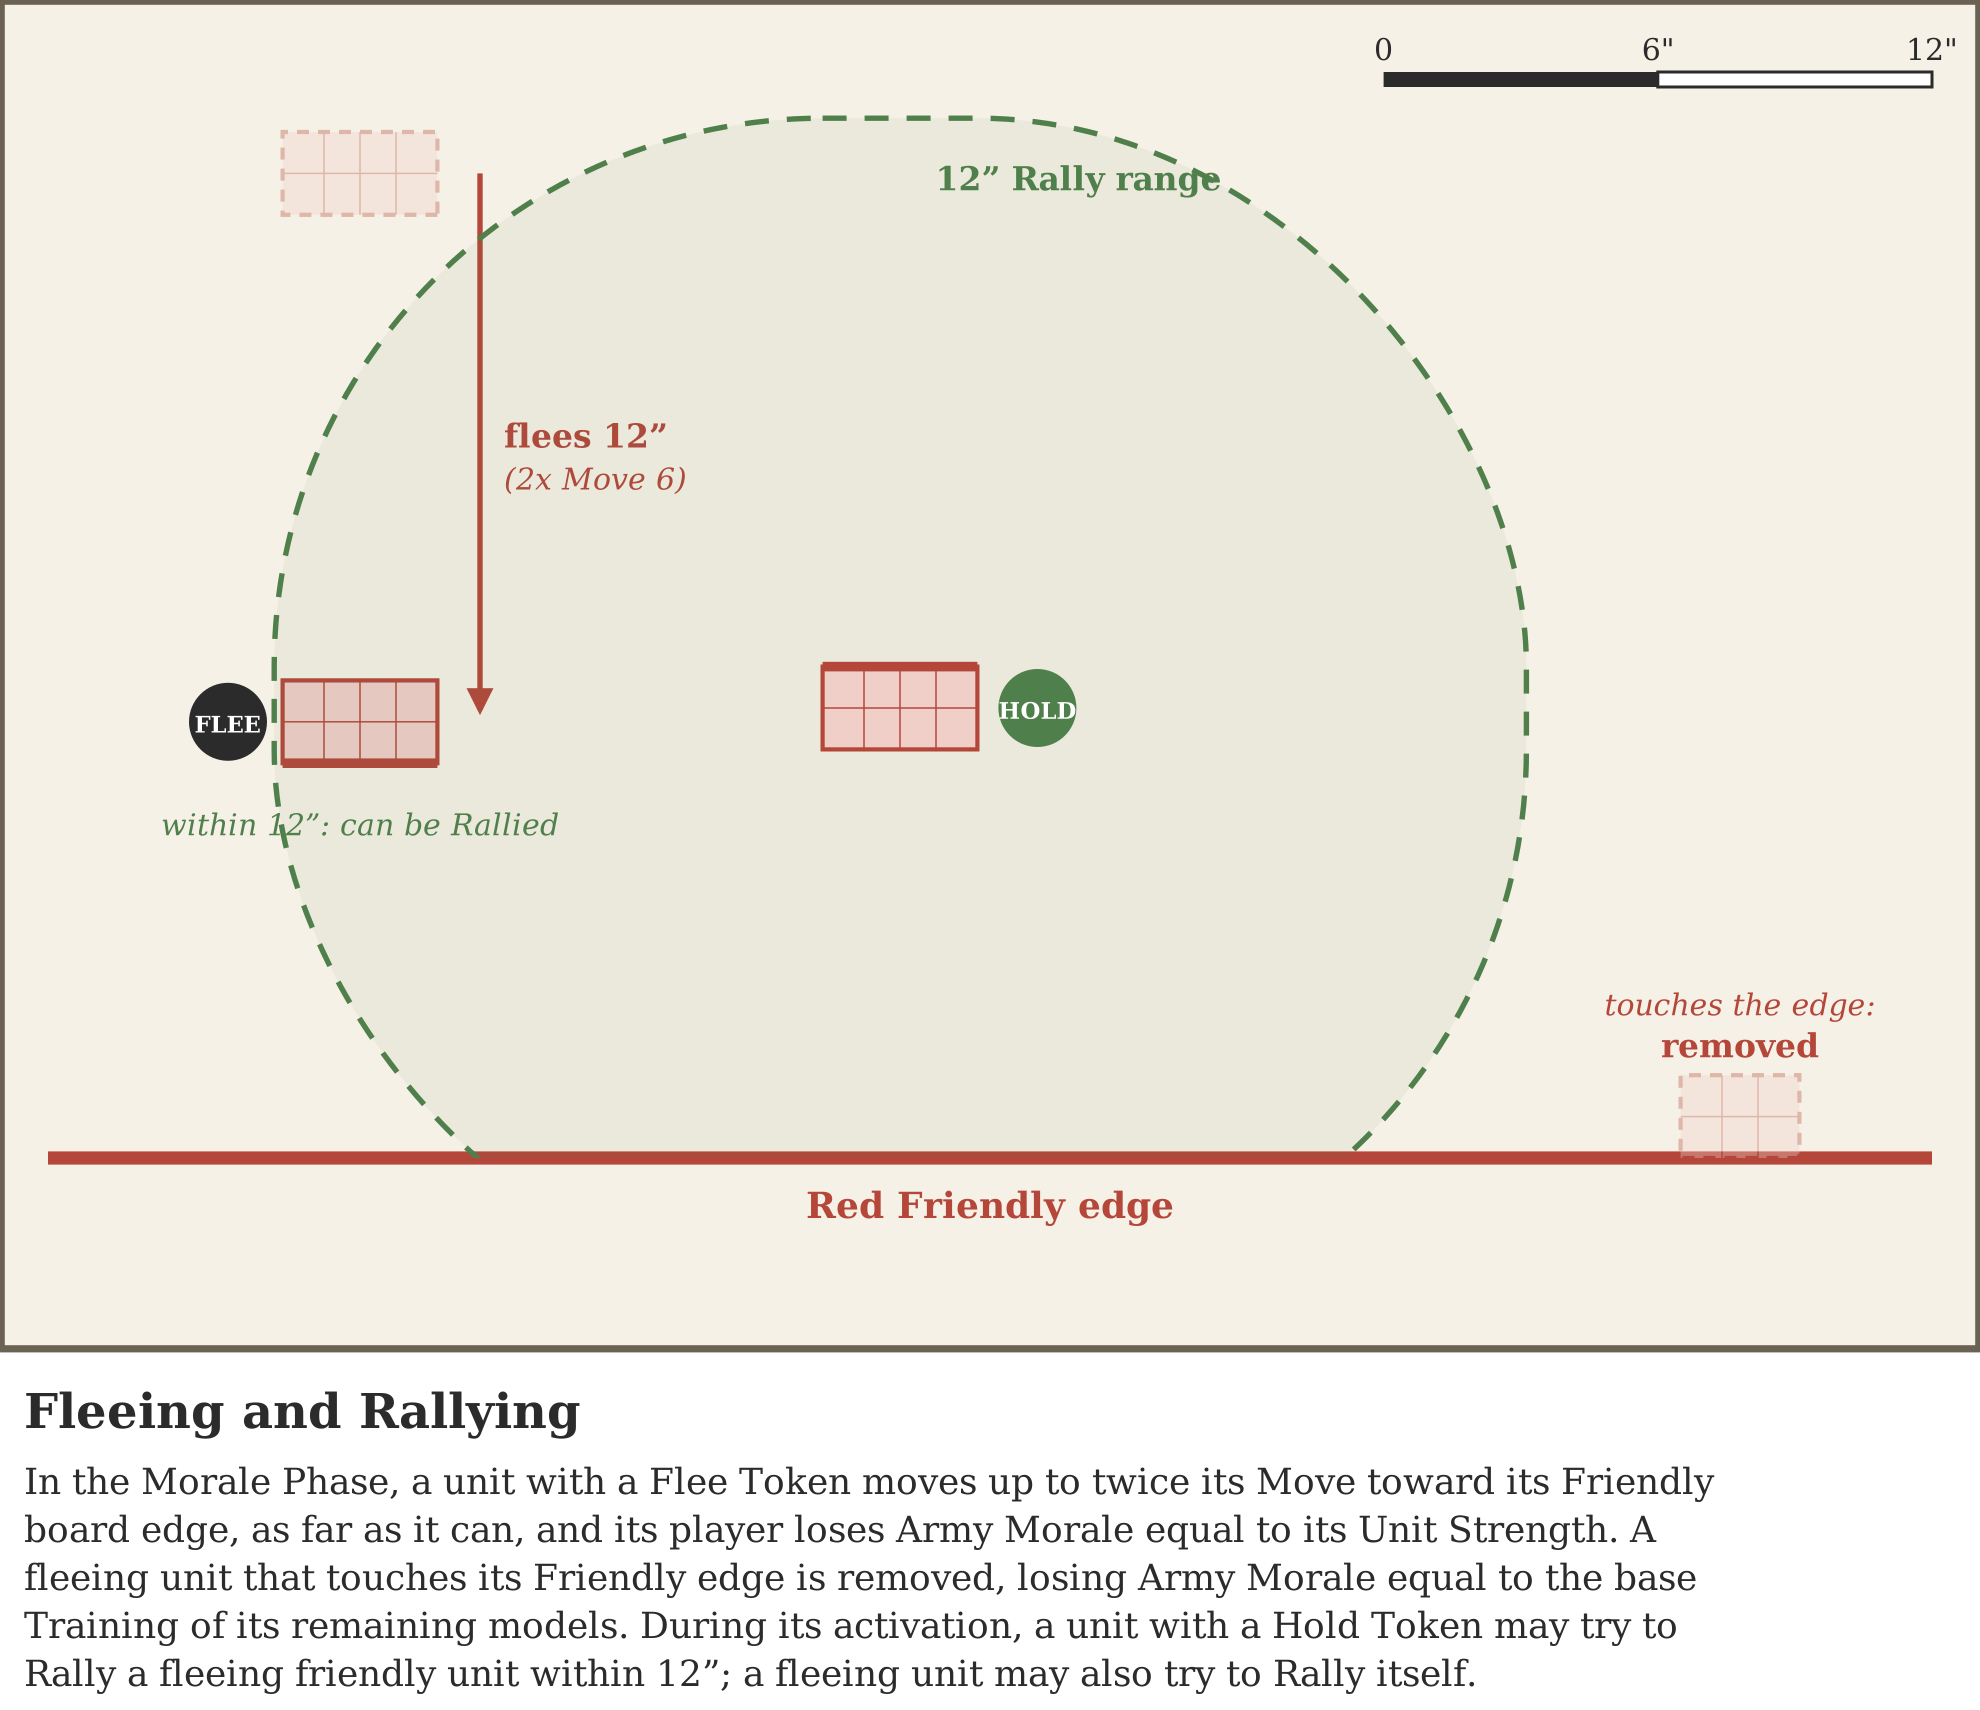
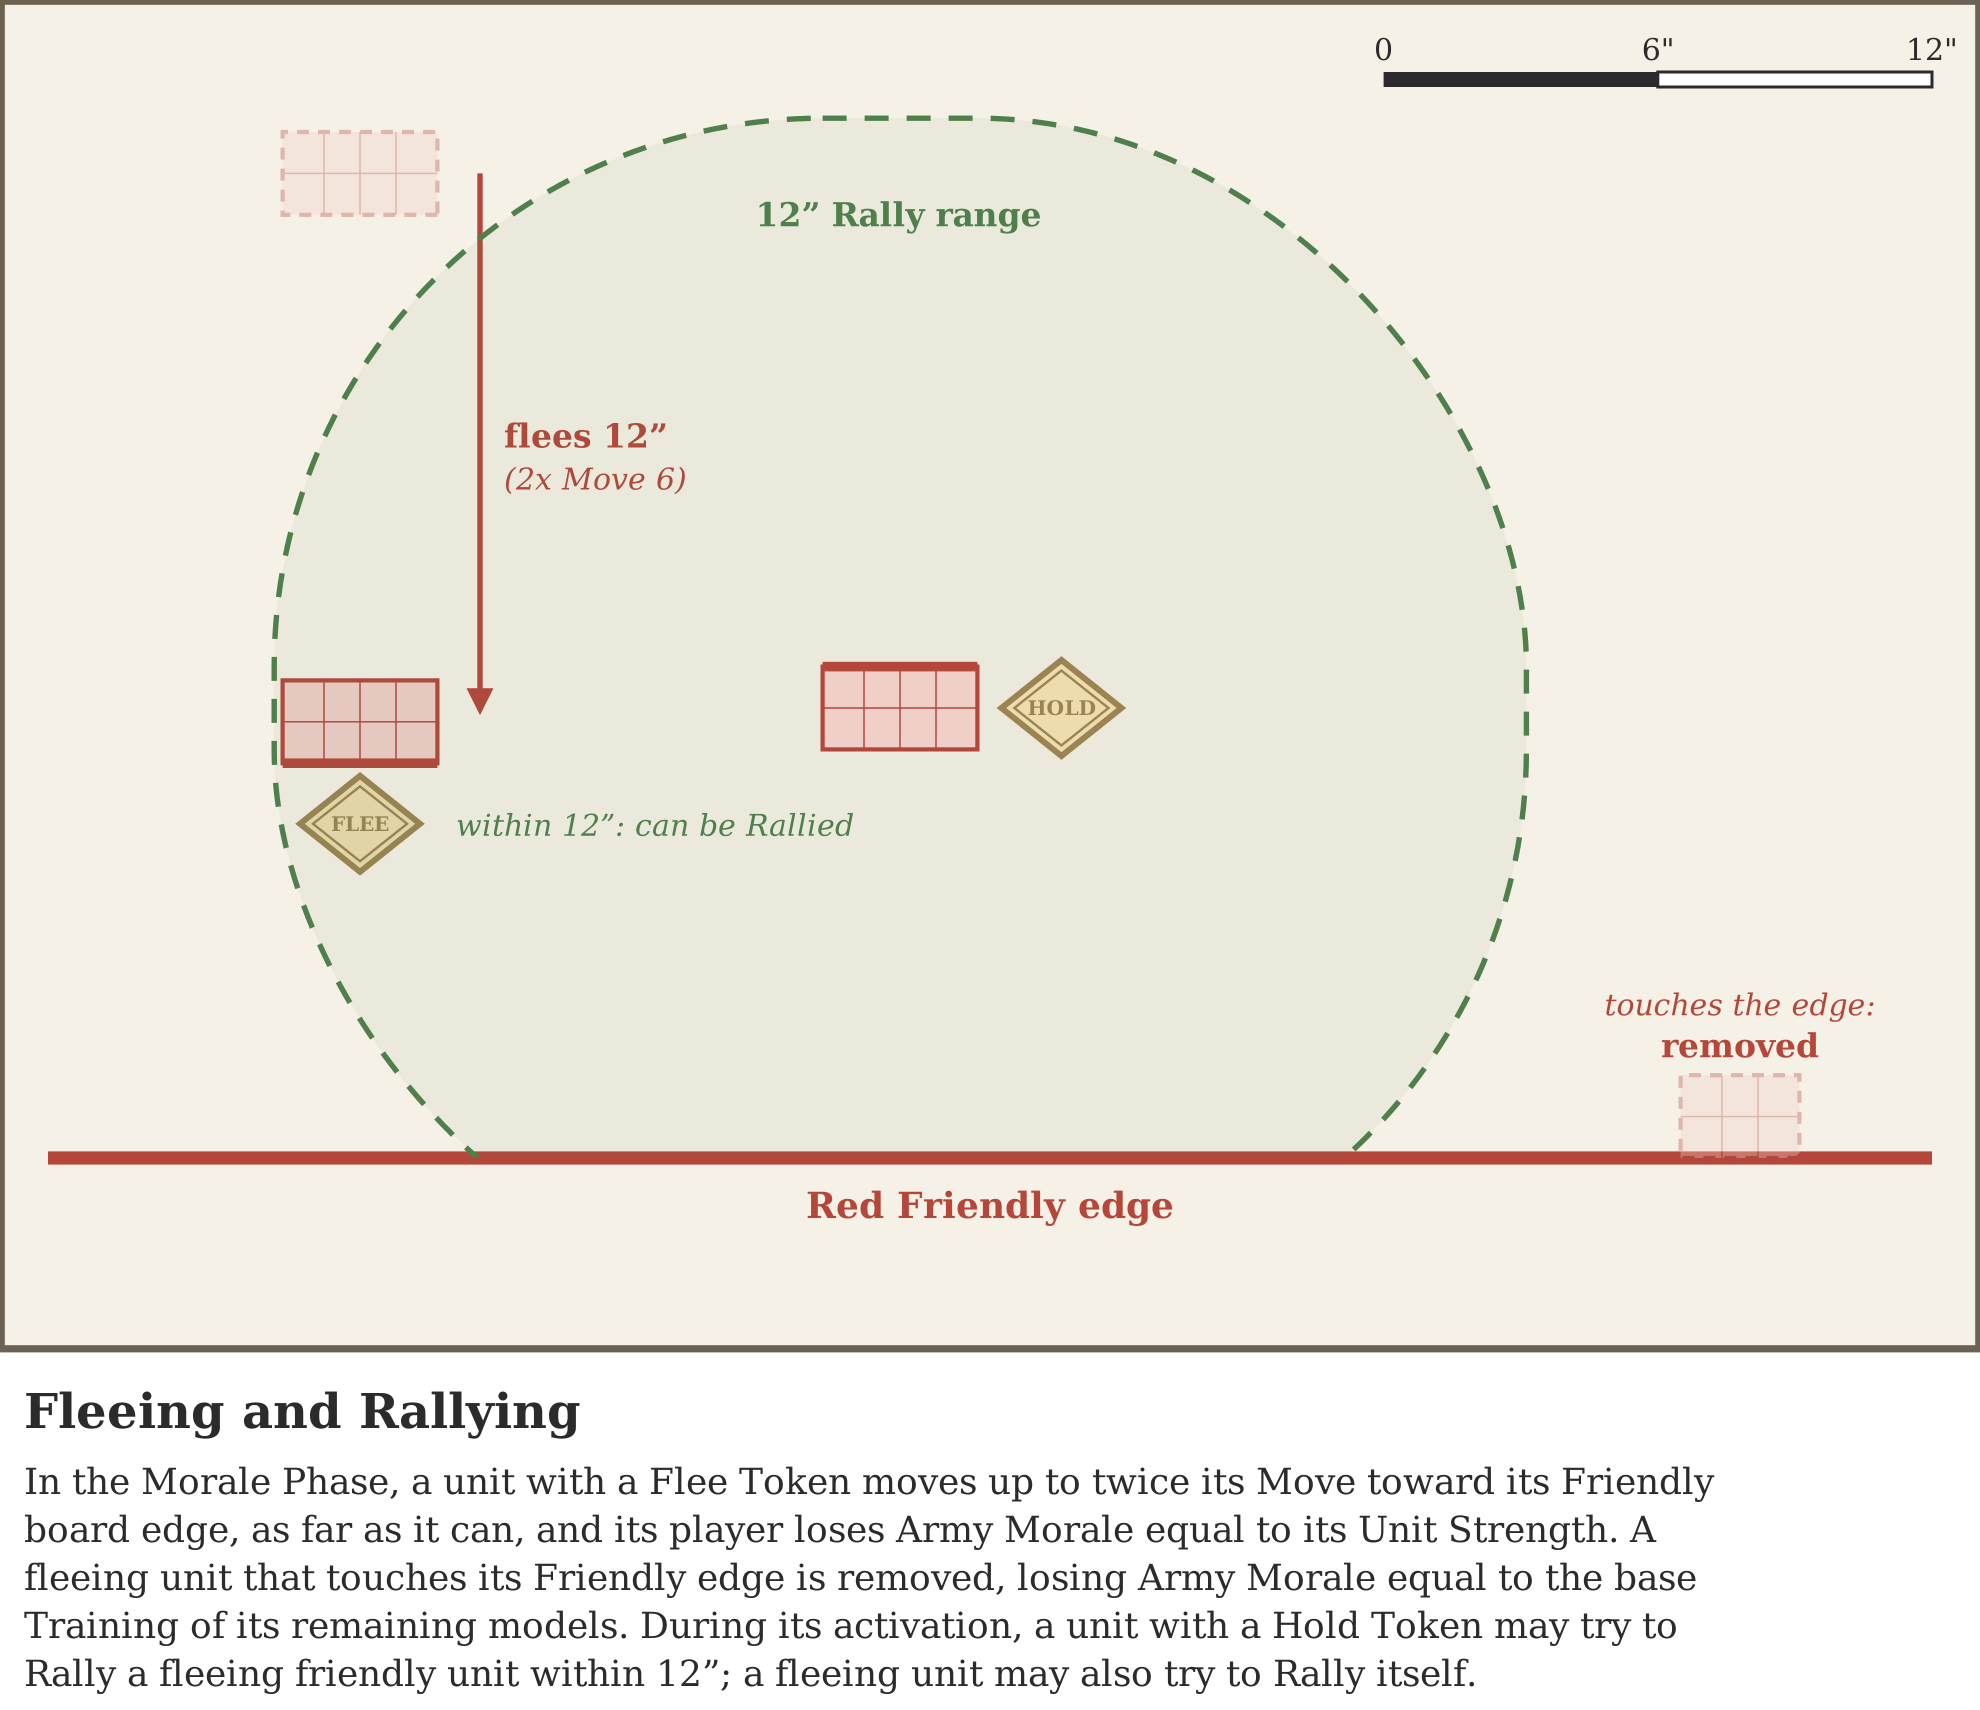
Diagrams: new token art in Fleeing, Exposed Flanks and Charge Fails; fix Fleeing label overlaps
Claude-Session: https://claude.ai/code/session_017qtE7ipkmheXKkdp74hFts

diff --git a/diagrams/fleeing.py b/diagrams/fleeing.py
@@ -1,4 +1,5 @@
 from board import *
+from tokens import action_token
 k = 0.3
 W, H = 330, 225
 s = SVG(W, H, 'Fleeing and Rallying', [
@@ -21,7 +22,7 @@ mini_tray(s, fx, fy1 + mm(23), 2, 4, 180, 'red', k=k)
 s.arrow(fx + 20, fy0 + mm(23), fx + 20, fy1 + mm(23) - 2, C['red'], w=0.9)
 s.text(fx + 24, (fy0 + fy1) / 2 + mm(23), 'flees 12”', 5.5, C['red'], 'start', bold=True)
 s.text(fx + 24, (fy0 + fy1) / 2 + mm(23) + 7, '(2x Move 6)', 5, C['red'], 'start', italic=True)
-token(fx - 22, fy1 + mm(23), 'FLEE', C['ink'])
+action_token(s, fx, fy1 + mm(23) + 17, 'Flee', 8)
 # 2. a fleeing unit that reaches the edge is removed
 rx = 290
 mini_tray(s, rx, edge - mm(23), 2, 3, 180, 'red', ghost=True, k=k)
@@ -33,9 +34,9 @@ w, d = mm(86), mm(46); R = mm(12 * IN)
 s.add(f'<clipPath id="table"><rect x="0" y="0" width="{W}" height="{edge}"/></clipPath>')
 s.add(f'<rect clip-path="url(#table)" x="{hx - w/2 - R:.1f}" y="{hy - d/2 - R:.1f}" width="{w + 2*R:.1f}" height="{d + 2*R:.1f}" rx="{R:.1f}" fill="{C["green"]}" fill-opacity="0.07" stroke="{C["green"]}" stroke-width="0.9" stroke-dasharray="4 3"/>')
 mini_tray(s, hx, hy, 2, 4, 0, 'red', k=k)
-token(hx + w / 2 + 10, hy, 'HOLD', C['green'])
-s.text(hx + 30, hy - d / 2 - R + 12, '12” Rally range', 5.5, C['green'], bold=True)
-s.text(fx, fy1 + mm(46) + 12, 'within 12”: can be Rallied', 5, C['green'], italic=True)
+action_token(s, hx + w / 2 + 14, hy, 'Hold', 8)
+s.text(hx, hy - d / 2 - R + 18, '12” Rally range', 5.5, C['green'], bold=True)
+s.text(fx + 16, fy1 + mm(23) + 19, 'within 12”: can be Rallied', 5, C['green'], 'start', italic=True)
 s.add(f'<rect x="0.4" y="0.4" width="{W-0.8}" height="{H-0.8}" fill="none" stroke="{C["line"]}" stroke-width="0.8"/>')
 w12 = mm(12 * IN)
 s.add(f'<rect x="{W-8-w12:.1f}" y="{12}" width="{w12/2:.1f}" height="2.5" fill="{C["ink"]}"/><rect x="{W-8-w12/2:.1f}" y="12" width="{w12/2:.1f}" height="2.5" fill="#fff" stroke="{C["ink"]}" stroke-width="0.5"/>')

diff --git a/diagrams/exposed_flanks.py b/diagrams/exposed_flanks.py
@@ -1,4 +1,5 @@
 from style import *
+from tokens import break_token
 W, H = 300, 215
 s = SVG(W, H, 'Exposed Flanks', [
     'A Closed Order unit charged in a flank gains 1 Break Token, and charged in the rear gains 2, on top of any from Terrify. It also',
@@ -11,7 +12,7 @@ s.text(cx - 76, cy - 40, 'Flank charge', 6, C['red'], bold=True)
 s.tray(cx, cy + 33 + 23, 2, 4, 0, 'red')
 s.text(cx, cy + 33 + 46 + 10, 'Rear charge', 6, C['red'], bold=True)
 def tok(x, y):
-    s.add(f'<circle cx="{x}" cy="{y}" r="6" fill="{C["ink"]}"/>'); s.text(x, y + 2, 'B', 5.5, '#fff', bold=True)
+    break_token(s, x, y + 1, 6)
 tok(cx - 40, cy - 48); s.text(cx - 30, cy - 46, '+1 Break Token (flank)', 5.5, C['ink'], 'start')
 tok(cx - 40, cy - 64); tok(cx - 26, cy - 64); s.text(cx - 16, cy - 62, '+2 Break Tokens (rear)', 5.5, C['ink'], 'start')
 s.text(cx + 62, cy + 4, 'No Collision Hits', 5.5, C['blue'], 'start', bold=True)

diff --git a/diagrams/charge_fails.py b/diagrams/charge_fails.py
@@ -1,4 +1,5 @@
 from style import *
+from tokens import round_token
 W, H = 240, 370
 s = SVG(W, H, 'Charge Fails', [
     'Hattian Infantry (Move 6) would normally charge up to 12”, but they start in Crumbled Ruins, which follow the rules for a',
@@ -28,8 +29,7 @@ dim(cx + 62, bfront, start_front, 'needs 7”')
 dim(cx - 60, end_front, start_front, 'moves 6”', C['red'], left=True)
 dim(cx - 60, bfront, end_front, '1” gap', C['line'], left=True)
 tx, ty = cx - 45, end_front + dr + 14
-s.add(f'<circle cx="{tx+20}" cy="{ty}" r="7" fill="{C["ink"]}"/>')
-s.text(tx + 20, ty + 2.2, 'RUN', 4.5, '#fff', bold=True)
+round_token(s, tx + 20, ty, 'Run', 8)
 s.text(tx + 30, ty + 2, 'Run token', 5.5, C['ink'], 'start', italic=True)
 s.text(cx, start_front + dr + 9, 'Start', 5.5, C['red'], italic=True)
 s.text(cx, 14, 'Defender', 6, C['blue'], bold=True) if False else None
